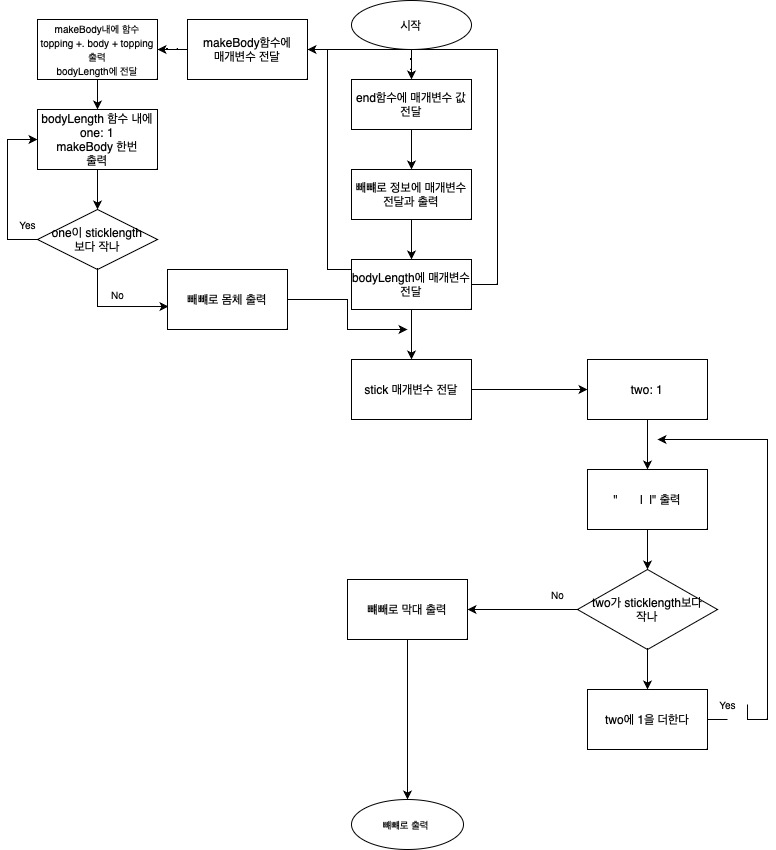
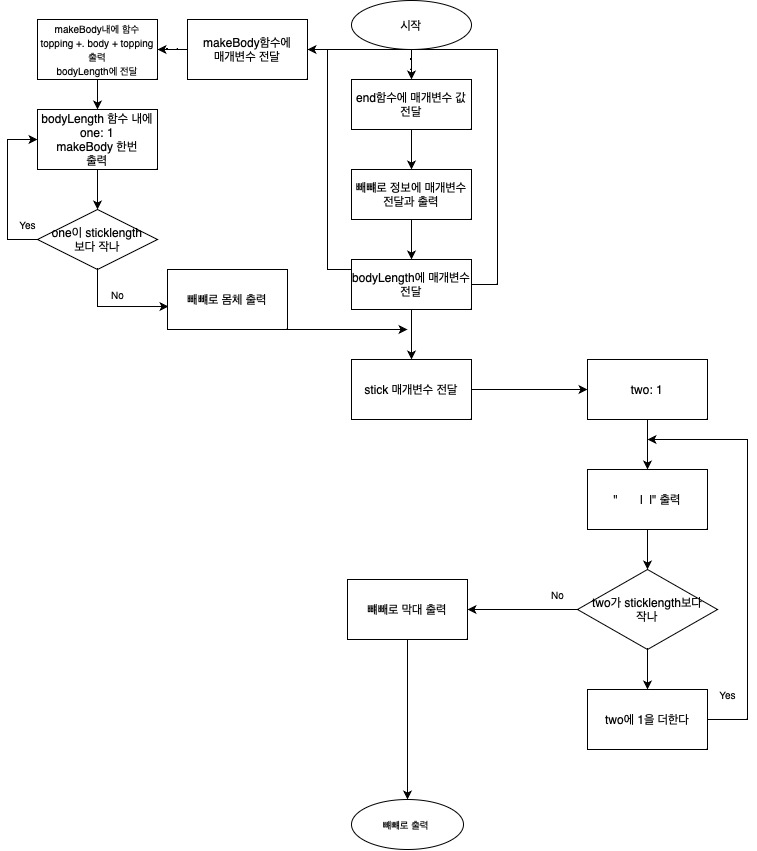
main과 순서도 수정

diff --git a/CodeStarterCamp_Week1/main.swift b/CodeStarterCamp_Week1/main.swift
@@ -4,7 +4,7 @@ func drawBody(to body: String, from topping: String) {
     print(topping + body + topping)
 }
 
-func drawBodyLength(length: Int, body: String, topping: String) {
+func drawBodyLength(to length: Int, with body: String, by topping: String) {
     for one in 1...length {
         drawBody(to: body, from: topping)
     }
@@ -16,20 +16,20 @@ func drawStick(sticklength: Int) {
     }
 }
 
-func drawEnd(length: Int, body: String, topping: String, sticklength: Int) {
+func drawPepero(length: Int, body: String, topping: String, sticklength: Int) {
     print("<정보>")
     print("길이: \(length)")
     print("몸통: \(body)")
     print("토핑: \(topping)")
     print(("막대길이: \(sticklength)"))
     print()
-    drawBodyLength(length: length, body: body, topping: topping)
+    drawBodyLength(to: length, with: body, by: topping)
     drawStick(sticklength: sticklength)
 }
 
-drawEnd(length: 10, body: "***", topping: " ", sticklength: 4)  // 예시1
-drawEnd(length: 12, body: "***", topping: "&", sticklength: 4)  // 예시2
-drawEnd(length: 12, body: "***", topping: "#", sticklength: 6)  // 예시3
-drawEnd(length: 6, body: "|0|", topping: " ", sticklength: 4)  // 예시4
-drawEnd(length: 8, body: "|◼|", topping: "#", sticklength: 4)  // 직접 만들기
+drawPepero(length: 10, body: "***", topping: " ", sticklength: 4)
+drawPepero(length: 12, body: "***", topping: "&", sticklength: 4)
+drawPepero(length: 12, body: "***", topping: "#", sticklength: 6)
+drawPepero(length: 6, body: "|0|", topping: " ", sticklength: 4)
+drawPepero(length: 8, body: "|◼|", topping: "#", sticklength: 4)
 
